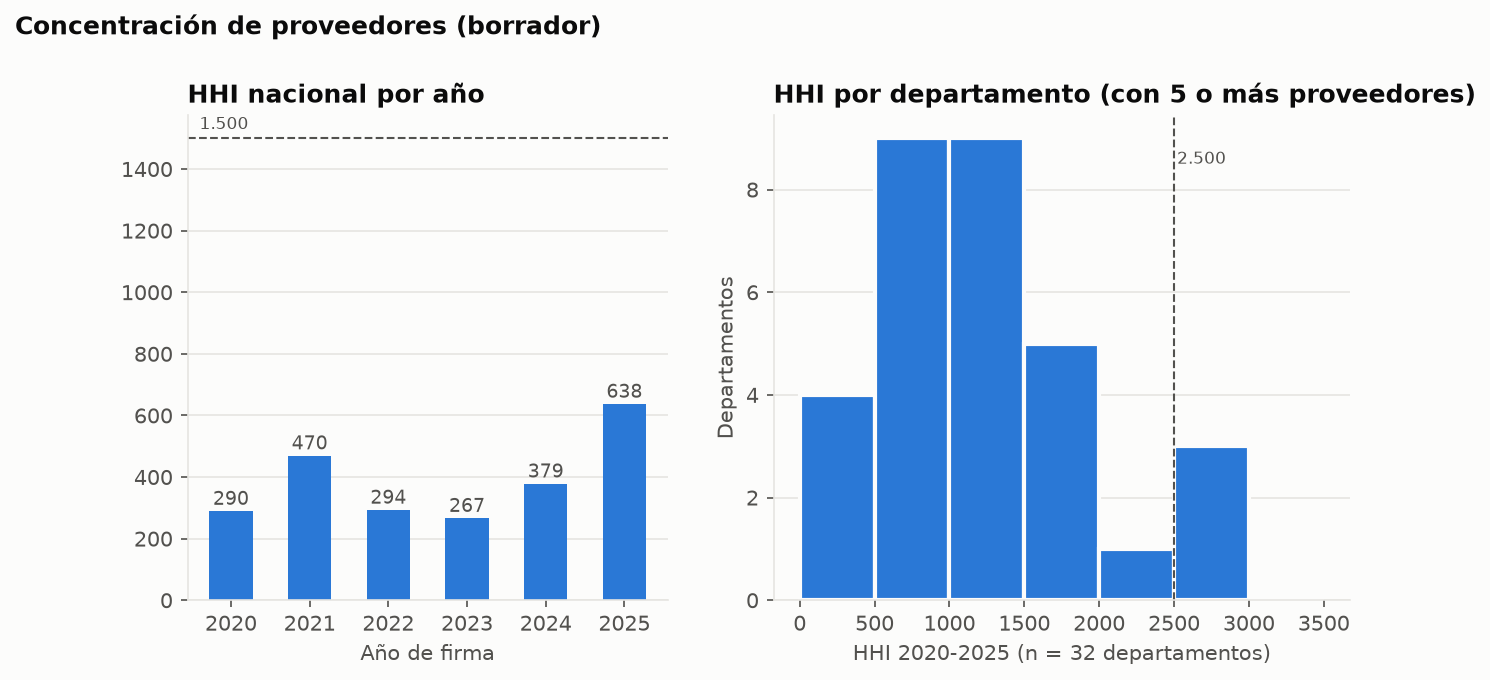
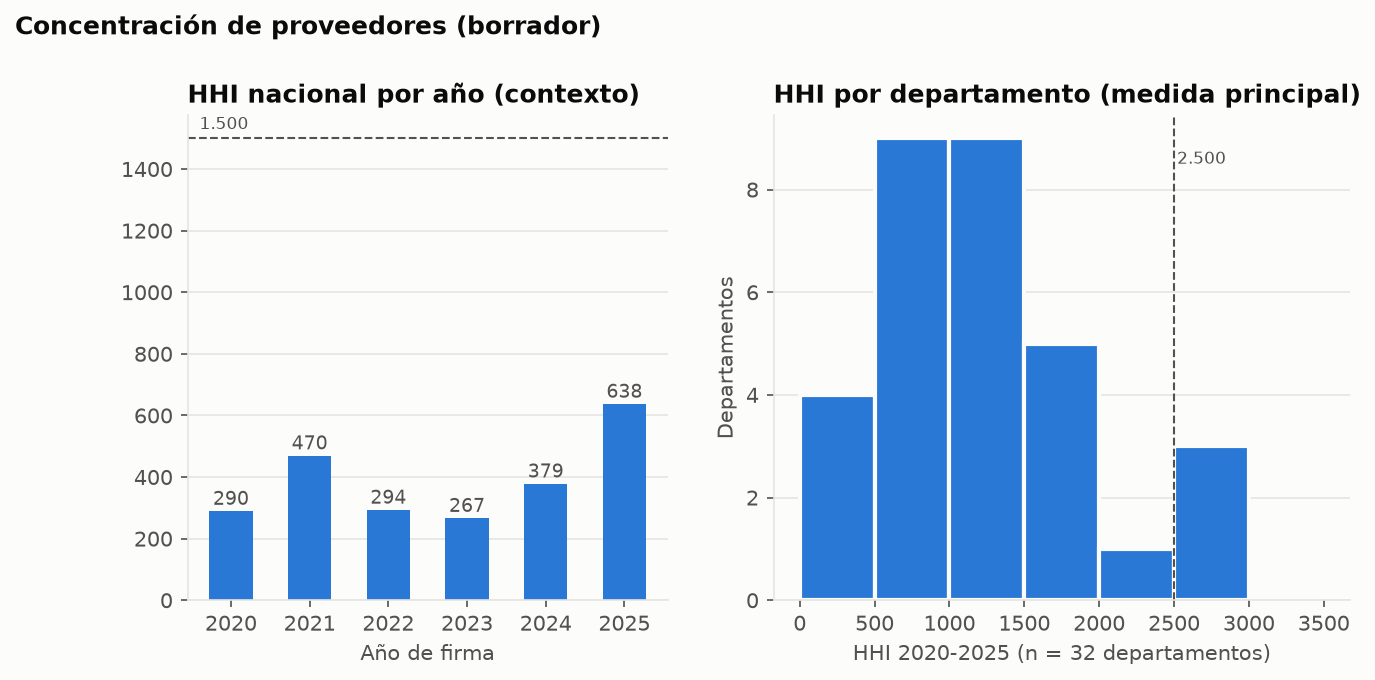
docs: D69 vigente con HHI departamental como medida principal y los 10 mayores contratos de 2020-2024 (D82)
D69 queda vigente con dos condiciones (HHI por departamento como medida
principal y el nacional como contexto; HHI de 2025 después de corregir los dos
contratos de D81, con la sensibilidad sin los tres mayores) y con la limitación
de que las personas naturales no se unen entre SECOP I y II. El informe
reorganiza la sección de proveedores. D82 lista los 10 mayores contratos
funerarios de 2020-2024 con sus probabilidades en TF-IDF y e5, sin reetiquetar
ninguno.

diff --git a/src/modelos/mercado_informe.py b/src/modelos/mercado_informe.py
@@ -98,6 +98,10 @@ def main():
     d_hh["anio"] = d_hh["anio"].astype(int)
     d_hh["proveedores"] = d_hh["proveedores"].astype(int)
     con5 = hd[hd["proveedores"] >= 5]
+    hdep = pd.read_csv(s / "proveedores_hhi_departamento_resumen_anual.csv")
+    d_hdep = hdep.rename(columns={"anio": "año", "departamentos_con_5_o_mas_proveedores": "departamentos", "HHI_mediana": "HHI mediana",
+                                  "HHI_p25": "HHI p25", "HHI_p75": "HHI p75", "departamentos_HHI_mayor_2500": "con HHI > 2.500"})
+    d_hdep = d_hdep.rename(columns={"HHI mediana": "HHI_mediana", "HHI p25": "HHI_p25", "HHI p75": "HHI_p75"})
     cuantiles = con5["HHI"].quantile([0.1, 0.25, 0.5, 0.75, 0.9]).round(0)
 
     c = lambda k: cruce.loc[k]
@@ -183,15 +187,21 @@ Todo lo de esta sección es borrador sin conclusiones; usa los contratos `funera
 
 **Decisión D68** (propuesta, borrador): indicadores de componentes, que reemplazan al subtipo único con prioridad; D78 fija cuáles se reportan.
 
-## 5. Proveedores (borrador)
+## 5. Proveedores (D69, vigente con condiciones)
 
-Participación, HHI y CR4 por valor constante (`proveedores_hhi_cr4_anual.csv`, `proveedores_hhi_departamento.csv`, `proveedores_top_participacion.csv`; gráfico `5_concentracion_proveedores.png`). El identificador es el NIT (SECOP I, personas jurídicas) o el código de proveedor (SECOP II); las personas naturales van seudonimizadas (D15) y no se unen entre SECOP I y II, por lo que un mismo proveedor puede contarse dos veces en 2020–2022.
+**Medida principal: HHI por departamento** (el mercado es local; `proveedores_hhi_departamento.csv`, `proveedores_hhi_departamento_anual.csv`, `proveedores_hhi_departamento_resumen_anual.csv`). El HHI nacional va solo como contexto. Participación y concentración por valor constante; el identificador es el NIT (SECOP I, personas jurídicas) o el código de proveedor (SECOP II). **Limitación: las personas naturales van seudonimizadas (D15) y no se unen entre SECOP I y II, así que un mismo proveedor puede contarse dos veces y la concentración puede estar subestimada.**
+
+HHI por departamento y año (departamentos con 5 o más proveedores; mediana y cuartiles entre departamentos):
+
+{tabla(d_hdep, {"HHI_mediana": "{:.0f}", "HHI_p25": "{:.0f}", "HHI_p75": "{:.0f}"})}
+
+Pooled 2020–2025 (n = {len(con5)} departamentos con 5 o más proveedores): percentiles 10, 25, 50, 75 y 90 = {', '.join(f'{v:,.0f}' for v in cuantiles)}; {int((con5['HHI'] > 2500).sum())} de {len(con5)} superan 2.500. Los cinco proveedores de mayor valor suman el {top.head(5)['participacion_valor_pct'].sum():.1f} % del valor total (`proveedores_top_participacion.csv`).
+
+**Contexto: HHI y CR4 nacionales por año** (`proveedores_hhi_cr4_anual.csv`; gráfico `5_concentracion_proveedores.png`). El de 2025 se reporta después de corregir los dos contratos de D81; la sensibilidad sin los tres mayores contratos está más abajo:
 
 {tabla(d_hh, {"HHI": "{:.0f}", "CR4": "{:.1f}"})}
 
-HHI por departamento (2020–2025, departamentos con 5 o más proveedores, n = {len(con5)}): percentiles 10, 25, 50, 75 y 90 = {', '.join(f'{v:,.0f}' for v in cuantiles)}; {int((con5['HHI'] > 2500).sum())} de {len(con5)} superan 2.500. Los cinco proveedores de mayor valor suman el {top.head(5)['participacion_valor_pct'].sum():.1f} % del valor total (`proveedores_top_participacion.csv`).
-
-**Decisión D69** (propuesta, borrador): identificador de proveedor y medidas de concentración.
+**Decisión D69** (vigente con condiciones): medida principal por departamento, HHI nacional como contexto, HHI de 2025 después de las correcciones de D81 y con la sensibilidad sin los tres mayores.
 
 ### Descomposición del HHI de 2025 (D77)
 

diff --git a/src/modelos/mercado.py b/src/modelos/mercado.py
@@ -161,6 +161,13 @@ def escribir_patrones(d, salida, divipola):
             columns={"nom_razon_social_contratista": "nombre_proveedor"}).assign(fuente="secop1"),
         pd.read_parquet(interim / "secop2_senales.parquet", columns=["llave", "proveedor_adjudicado"]).rename(
             columns={"proveedor_adjudicado": "nombre_proveedor"}).assign(fuente="secop2")])
+    por_dep_anio, resumen_dep_anio = mp.hhi_departamento_anual(f, nombres_dep)
+    por_dep_anio.to_csv(salida / "proveedores_hhi_departamento_anual.csv", index=False, encoding="utf-8-sig")
+    resumen_dep_anio.to_csv(salida / "proveedores_hhi_departamento_resumen_anual.csv", index=False, encoding="utf-8-sig")
+    g = f[f["anio"].between(2020, 2024)].nlargest(10, "valor_constante_2025").merge(nombres, on=["fuente", "llave"], how="left")
+    g["proveedor"] = np.where(g["proveedor_persona_natural"], "(persona natural: no se muestra)", g["nombre_proveedor"])
+    g[["anio", "fuente", "entidad", "valor", "valor_constante_2025", "proveedor", "modalidad", "p_tfidf_funerario", "p_e5_funerario",
+       "pred_tfidf_modelo", "pred_e5_modelo", "objeto"]].to_csv(salida / "top10_contratos_2020_2024.csv", index=False, encoding="utf-8-sig")
     mp.top_contratos(f, 2025, nombres).to_csv(salida / "hhi_2025_top10_contratos.csv", index=False, encoding="utf-8-sig")
     mp.hhi_sin_mayores(f, 2025).to_csv(salida / "hhi_2025_sin_mayores.csv", index=False, encoding="utf-8-sig")
     comparacion = []

diff --git a/src/modelos/mercado_patrones.py b/src/modelos/mercado_patrones.py
@@ -259,3 +259,18 @@ def hhi_sin_mayores(f, anio, ks=(0, 1, 2, 3, 5, 10)):
         r = hhi_cr4(x.iloc[k:])
         filas.append({"sin_los_mayores": k, "contratos": len(x) - k, "valor_constante_2025": x.iloc[k:]["valor_constante_2025"].sum(), **r})
     return pd.DataFrame(filas)
+
+
+def hhi_departamento_anual(f, nombres_dep, minimo_proveedores=5):
+    filas = []
+    for (anio, cod), x in f[f["cod_dpto"].notna()].groupby(["anio", "cod_dpto"]):
+        filas.append({"anio": anio, "cod_dpto": cod, "departamento": nombres_dep.get(cod), **hhi_cr4(x), "contratos": len(x),
+                      "valor_constante_2025": x["valor_constante_2025"].sum()})
+    t = pd.DataFrame(filas)
+    resumen = []
+    for anio, g in t.groupby("anio"):
+        c = g[g["proveedores"] >= minimo_proveedores]
+        resumen.append({"anio": anio, "departamentos_con_5_o_mas_proveedores": len(c), "HHI_mediana": c["HHI"].median(),
+                        "HHI_p25": c["HHI"].quantile(0.25), "HHI_p75": c["HHI"].quantile(0.75),
+                        "departamentos_HHI_mayor_2500": int((c["HHI"] > 2500).sum())})
+    return t, pd.DataFrame(resumen)

diff --git a/src/modelos/mercado_graficos.py b/src/modelos/mercado_graficos.py
@@ -108,14 +108,14 @@ def concentracion(anual, dep):
         a1.text(x, y + 20, f"{y:.0f}", ha="center", color=TEXTO_2, fontsize=9)
     a1.axhline(1500, color=TEXTO_2, linewidth=1, linestyle="--")
     a1.text(anual["anio"].min() - 0.4, 1530, "1.500", color=TEXTO_2, fontsize=8)
-    a1.set_title("HHI nacional por año")
+    a1.set_title("HHI nacional por año (contexto)")
     a1.set_xlabel("Año de firma")
     rejilla(a1)
     con = dep[dep["proveedores"] >= 5]
     a2.hist(con["HHI"], bins=[0, 500, 1000, 1500, 2000, 2500, 3000, 3500], color=AZUL, edgecolor=SUPERFICIE, linewidth=2)
     a2.axvline(2500, color=TEXTO_2, linewidth=1, linestyle="--")
     a2.text(2520, a2.get_ylim()[1] * 0.9, "2.500", color=TEXTO_2, fontsize=8)
-    a2.set_title("HHI por departamento (con 5 o más proveedores)")
+    a2.set_title("HHI por departamento (medida principal)")
     a2.set_xlabel(f"HHI 2020-2025 (n = {len(con)} departamentos)")
     a2.set_ylabel("Departamentos")
     rejilla(a2)

diff --git a/docs/decisiones.md b/docs/decisiones.md
@@ -551,7 +551,7 @@ Las decisiones no se borran: si cambian, se marca la anterior como reemplazada y
 - **Por qué:** HHI nacional por año: 290 (2020), 470, 294, 676, 742 y 1.120 (2025); CR4 de 28,4 % a 60,6 %, es decir, mercado poco concentrado que sube, en parte porque en 2023–2025 solo queda SECOP II y hay menos contratos. Por departamento (31 con 5 o más proveedores): percentiles 10, 25, 50, 75 y 90 de 633, 918, 1.328, 1.941 y 2.778; 4 superan 2.500. El 41,4 % de los contratos tiene un proveedor persona natural. Los cinco proveedores de mayor valor reúnen el 25,0 % del valor.
 - **Descartado:** unir proveedores entre SECOP I y II (D15: no hay identificador común para las personas naturales ni código común para las jurídicas); medir la concentración por número de contratos como cifra principal.
 - **Sustento:** `src/modelos/mercado_patrones.py`; D15, D67.
-- **Estado:** propuesta, lista para revisión de Edward (actualizada con la cobertura completa de SECOP I; ver la actualización al final de esta decisión). Limitación: en 2020–2022 un mismo proveedor puede figurar en las dos fuentes con identificadores distintos, lo que subestima la concentración de esos años.
+- **Estado:** **vigente con dos condiciones** (aceptada por Edward, 2026-10-26): (a) la medida principal de concentración es el HHI por departamento y el HHI nacional va solo como contexto, porque el mercado es local; (b) el HHI de 2025 se reporta después de corregir los dos contratos de D81, con la sensibilidad sin los tres mayores contratos. Limitación obligatoria: las personas naturales no se unen entre SECOP I y II (D15), de modo que un mismo proveedor puede contarse dos veces y la concentración se subestima. Medida principal, HHI por departamento y año (departamentos con 5 o más proveedores; mediana y cuartiles 25 y 75): 2020, 1.344 (961–2.155; 28 departamentos; 4 con HHI mayor de 2.500); 2021, 1.501 (983–2.381; 27; 7); 2022, 1.826 (975–2.195; 27; 4); 2023, 1.716 (1.086–2.368; 27; 5); 2024, 2.034 (960–2.494; 26; 7); 2025, 1.832 (1.026–2.837; 28; 8). Contexto, HHI nacional de 2025 con las dos correcciones: 638 (CR4 de 33,0 %), y 90 sin los tres mayores contratos (CR4 de 11,7 %). Los departamentos con 5 o más proveedores tienen HHI medianos entre 1.344 y 2.034 (mercados locales moderadamente concentrados según los umbrales habituales de 1.500 y 2.500); el aumento nacional de 2025 no se ve en la mediana departamental. Limitación previa: en 2020–2022 un mismo proveedor puede figurar en las dos fuentes con identificadores distintos, lo que subestima la concentración de esos años.
 
 **Actualización con cobertura completa (2026-10-26, D73): lista para revisión de Edward.** HHI nacional por año con SECOP I y SECOP II: 290 (2020), 470, 294, 267 (2023), 379 (2024) y 769 (2025); CR4 de 28,4 %, 36,1 %, 25,3 %, 26,5 %, 31,3 % y 50,1 %; proveedores distintos 607, 534, 476, 471, 426 y 440. Con la serie incompleta el HHI de 2023 y 2024 parecía subir a 676 y 742: era en buena parte un efecto de cobertura, y con SECOP I completo se queda en 267 y 379; el aumento que persiste es el de 2025 (769, CR4 de 50,1 %), y coincide con el salto del valor de SECOP II ese año (45,8 miles de millones). Por departamento (32 con 5 o más proveedores, 2020–2025): percentiles 10, 25, 50, 75 y 90 de 489, 763, 1.251, 1.674 y 2.525; 4 superan 2.500. El 44,0 % de los contratos tiene un proveedor persona natural y los cinco proveedores de mayor valor reúnen el 21,9 % del valor. Sigue la limitación de que un mismo proveedor puede figurar en SECOP I y SECOP II con identificadores distintos, lo que subestima la concentración.
 
@@ -650,3 +650,10 @@ Las decisiones no se borran: si cambian, se marca la anterior como reemplazada y
 - **Descartado:** reentrenar los modelos con estas dos etiquetas (son contratos del universo, no de la muestra); aplicar la corrección solo al escenario de TF-IDF (e5 ya los clasificaba como `no_funerario` y ahora el primero pasa a `mixto` en ambos); borrar la predicción original del modelo.
 - **Sustento:** `src/modelos/mercado_base.py`; D61, D67, D69, D77, D78.
 - **Estado:** vigente. Limitación: las clases corregidas son dos de unos 5.000 contratos; otros contratos grandes pueden estar mal clasificados y no se han revisado (los diez mayores de 2025 se revisaron por modelo, no uno por uno).
+
+### D82. Los 10 mayores contratos funerarios de 2020–2024, pendientes de decisión de revisión
+- **Decisión:** no se reetiqueta ningún otro contrato grande por ahora. Se listan los 10 de mayor valor constante de 2020–2024 de la clase `funerario` (TF-IDF, con las correcciones de D81) con su probabilidad de `funerario` en TF-IDF y en e5, para que Edward decida si alguno se revisa (`data/processed/resultados_secop/top10_contratos_2020_2024.csv`, código en `src/modelos/mercado.py`). Todos son de SECOP II.
+- **Por qué (los 10, ordenados por valor constante; valor en miles de millones de pesos corrientes y de 2025; probabilidades TF-IDF / e5):** (1) 2021, UAESP, interventoría integral de un contrato de concesión (Consorcio San Marcos 2021): 6,90 y 9,45; **0,88 / 0,01**. (2) 2024, Dirección de Bienestar de la Policía Nacional, servicios funerarios del personal de la Policía (La Ascensión S.A.): 5,15 y 5,36; 0,85 / 0,98. (3) 2021, Dirección de Bienestar de la Policía Nacional, servicios funerarios (Consorcio Orquídeas 6): 3,69 y 5,03; 0,98 / 0,99. (4) 2020, Subred Integrada de Servicios de Salud Norte E.S.E., suministro de hemocomponentes, pruebas de inmunohematología y piel de cadáver (IDCBIS): 3,36 y 4,80; **0,60 / 0,00**. (5) 2020, Policía Nacional, servicios funerarios (Consorcio Exequial S.A.S.): 2,66 y 3,81; 0,99 / 0,97. (6) 2023, Policía Nacional, servicios funerarios (La Ascensión S.A.): 3,45 y 3,76; 0,99 / 0,99. (7) 2022, Policía Nacional, servicios funerarios (Coordinadora de Servicios de Parque Cementerio S.A.S.): 2,95 y 3,51; **0,70 / 0,97**. (8) 2021, Alcaldía de Pasto, asistencia humanitaria inmediata y asistencia funeraria para población víctima del conflicto (Diócesis de Pasto): 2,12 y 3,01; **0,72 / 0,70**. (9) 2020, Secretaría Distrital de Integración Social de Bogotá, servicios funerarios para población en emergencia social (Inversiones Monte Sacro S.A.S.): 1,55 y 2,22; 1,00 / 1,00. (10) 2022, la misma Secretaría, servicios funerarios (Jardines del Apogeo S.A.): 1,63 y 2,08; 1,00 / 1,00. Suman 43,0 miles de millones de pesos de 2025, el 20,7 % del mercado de 2020–2024 (207,6). Seis tienen ambas probabilidades de 0,85 o más y son servicios funerarios claros; cuatro merecen atención: (1) y (4) por una discrepancia grande entre modelos (0,88 frente a 0,01 y 0,60 frente a 0,00; el (1) es el mismo tipo de contrato que el de D81, una interventoría de la concesión de cementerios, y el (4) es un suministro de hemocomponentes y tejidos, no un servicio funerario), (8) por ser el mismo tipo que el contrato de albergue y ayuda humanitaria de D81 (posible `mixto`) y (7) por una discrepancia moderada (0,70 frente a 0,97) en un contrato de servicios funerarios de la Policía que probablemente es funerario. Mi lectura, sin reetiquetar: (1) probablemente `no_funerario` por D21, (4) probablemente `no_funerario`, (8) probablemente `mixto`, (7) probablemente `funerario`.
+- **Descartado:** reetiquetar por mi cuenta; revisar otros contratos grandes fuera de estos diez.
+- **Sustento:** `top10_contratos_2020_2024.csv`; D21, D81.
+- **Estado:** pendiente de decisión de Edward sobre cuáles de los cuatro casos señalados se etiquetan; si se corrigen (1), (4) y (8) saldrían de la clase `funerario` unos 17,2 miles de millones de pesos de 2025 (9,45 + 4,80 + 3,01), más del 8 % del mercado de 2020–2024.

diff --git a/docs/resultados/f4_mercado_publico.md b/docs/resultados/f4_mercado_publico.md
@@ -183,9 +183,24 @@ Todo lo de esta sección es borrador sin conclusiones; usa los contratos `funera
 
 **Decisión D68** (propuesta, borrador): indicadores de componentes, que reemplazan al subtipo único con prioridad; D78 fija cuáles se reportan.
 
-## 5. Proveedores (borrador)
+## 5. Proveedores (D69, vigente con condiciones)
 
-Participación, HHI y CR4 por valor constante (`proveedores_hhi_cr4_anual.csv`, `proveedores_hhi_departamento.csv`, `proveedores_top_participacion.csv`; gráfico `5_concentracion_proveedores.png`). El identificador es el NIT (SECOP I, personas jurídicas) o el código de proveedor (SECOP II); las personas naturales van seudonimizadas (D15) y no se unen entre SECOP I y II, por lo que un mismo proveedor puede contarse dos veces en 2020–2022.
+**Medida principal: HHI por departamento** (el mercado es local; `proveedores_hhi_departamento.csv`, `proveedores_hhi_departamento_anual.csv`, `proveedores_hhi_departamento_resumen_anual.csv`). El HHI nacional va solo como contexto. Participación y concentración por valor constante; el identificador es el NIT (SECOP I, personas jurídicas) o el código de proveedor (SECOP II). **Limitación: las personas naturales van seudonimizadas (D15) y no se unen entre SECOP I y II, así que un mismo proveedor puede contarse dos veces y la concentración puede estar subestimada.**
+
+HHI por departamento y año (departamentos con 5 o más proveedores; mediana y cuartiles entre departamentos):
+
+| año | departamentos | HHI_mediana | HHI_p25 | HHI_p75 | con HHI > 2.500 |
+|---|---|---|---|---|---|
+| 2020 | 28 | 1344 | 961 | 2155 | 4 |
+| 2021 | 27 | 1501 | 983 | 2381 | 7 |
+| 2022 | 27 | 1826 | 975 | 2195 | 4 |
+| 2023 | 27 | 1716 | 1086 | 2368 | 5 |
+| 2024 | 26 | 2034 | 960 | 2494 | 7 |
+| 2025 | 28 | 1832 | 1026 | 2837 | 8 |
+
+Pooled 2020–2025 (n = 32 departamentos con 5 o más proveedores): percentiles 10, 25, 50, 75 y 90 = 489, 763, 1,302, 1,674, 2,525; 4 de 32 superan 2.500. Los cinco proveedores de mayor valor suman el 22.3 % del valor total (`proveedores_top_participacion.csv`).
+
+**Contexto: HHI y CR4 nacionales por año** (`proveedores_hhi_cr4_anual.csv`; gráfico `5_concentracion_proveedores.png`). El de 2025 se reporta después de corregir los dos contratos de D81; la sensibilidad sin los tres mayores contratos está más abajo:
 
 | anio | proveedores | HHI | CR4 |
 |---|---|---|---|
@@ -196,9 +211,7 @@ Participación, HHI y CR4 por valor constante (`proveedores_hhi_cr4_anual.csv`, 
 | 2024 | 426 | 379 | 31.3 |
 | 2025 | 438 | 638 | 33.0 |
 
-HHI por departamento (2020–2025, departamentos con 5 o más proveedores, n = 32): percentiles 10, 25, 50, 75 y 90 = 489, 763, 1,302, 1,674, 2,525; 4 de 32 superan 2.500. Los cinco proveedores de mayor valor suman el 22.3 % del valor total (`proveedores_top_participacion.csv`).
-
-**Decisión D69** (propuesta, borrador): identificador de proveedor y medidas de concentración.
+**Decisión D69** (vigente con condiciones): medida principal por departamento, HHI nacional como contexto, HHI de 2025 después de las correcciones de D81 y con la sensibilidad sin los tres mayores.
 
 ### Descomposición del HHI de 2025 (D77)
 
